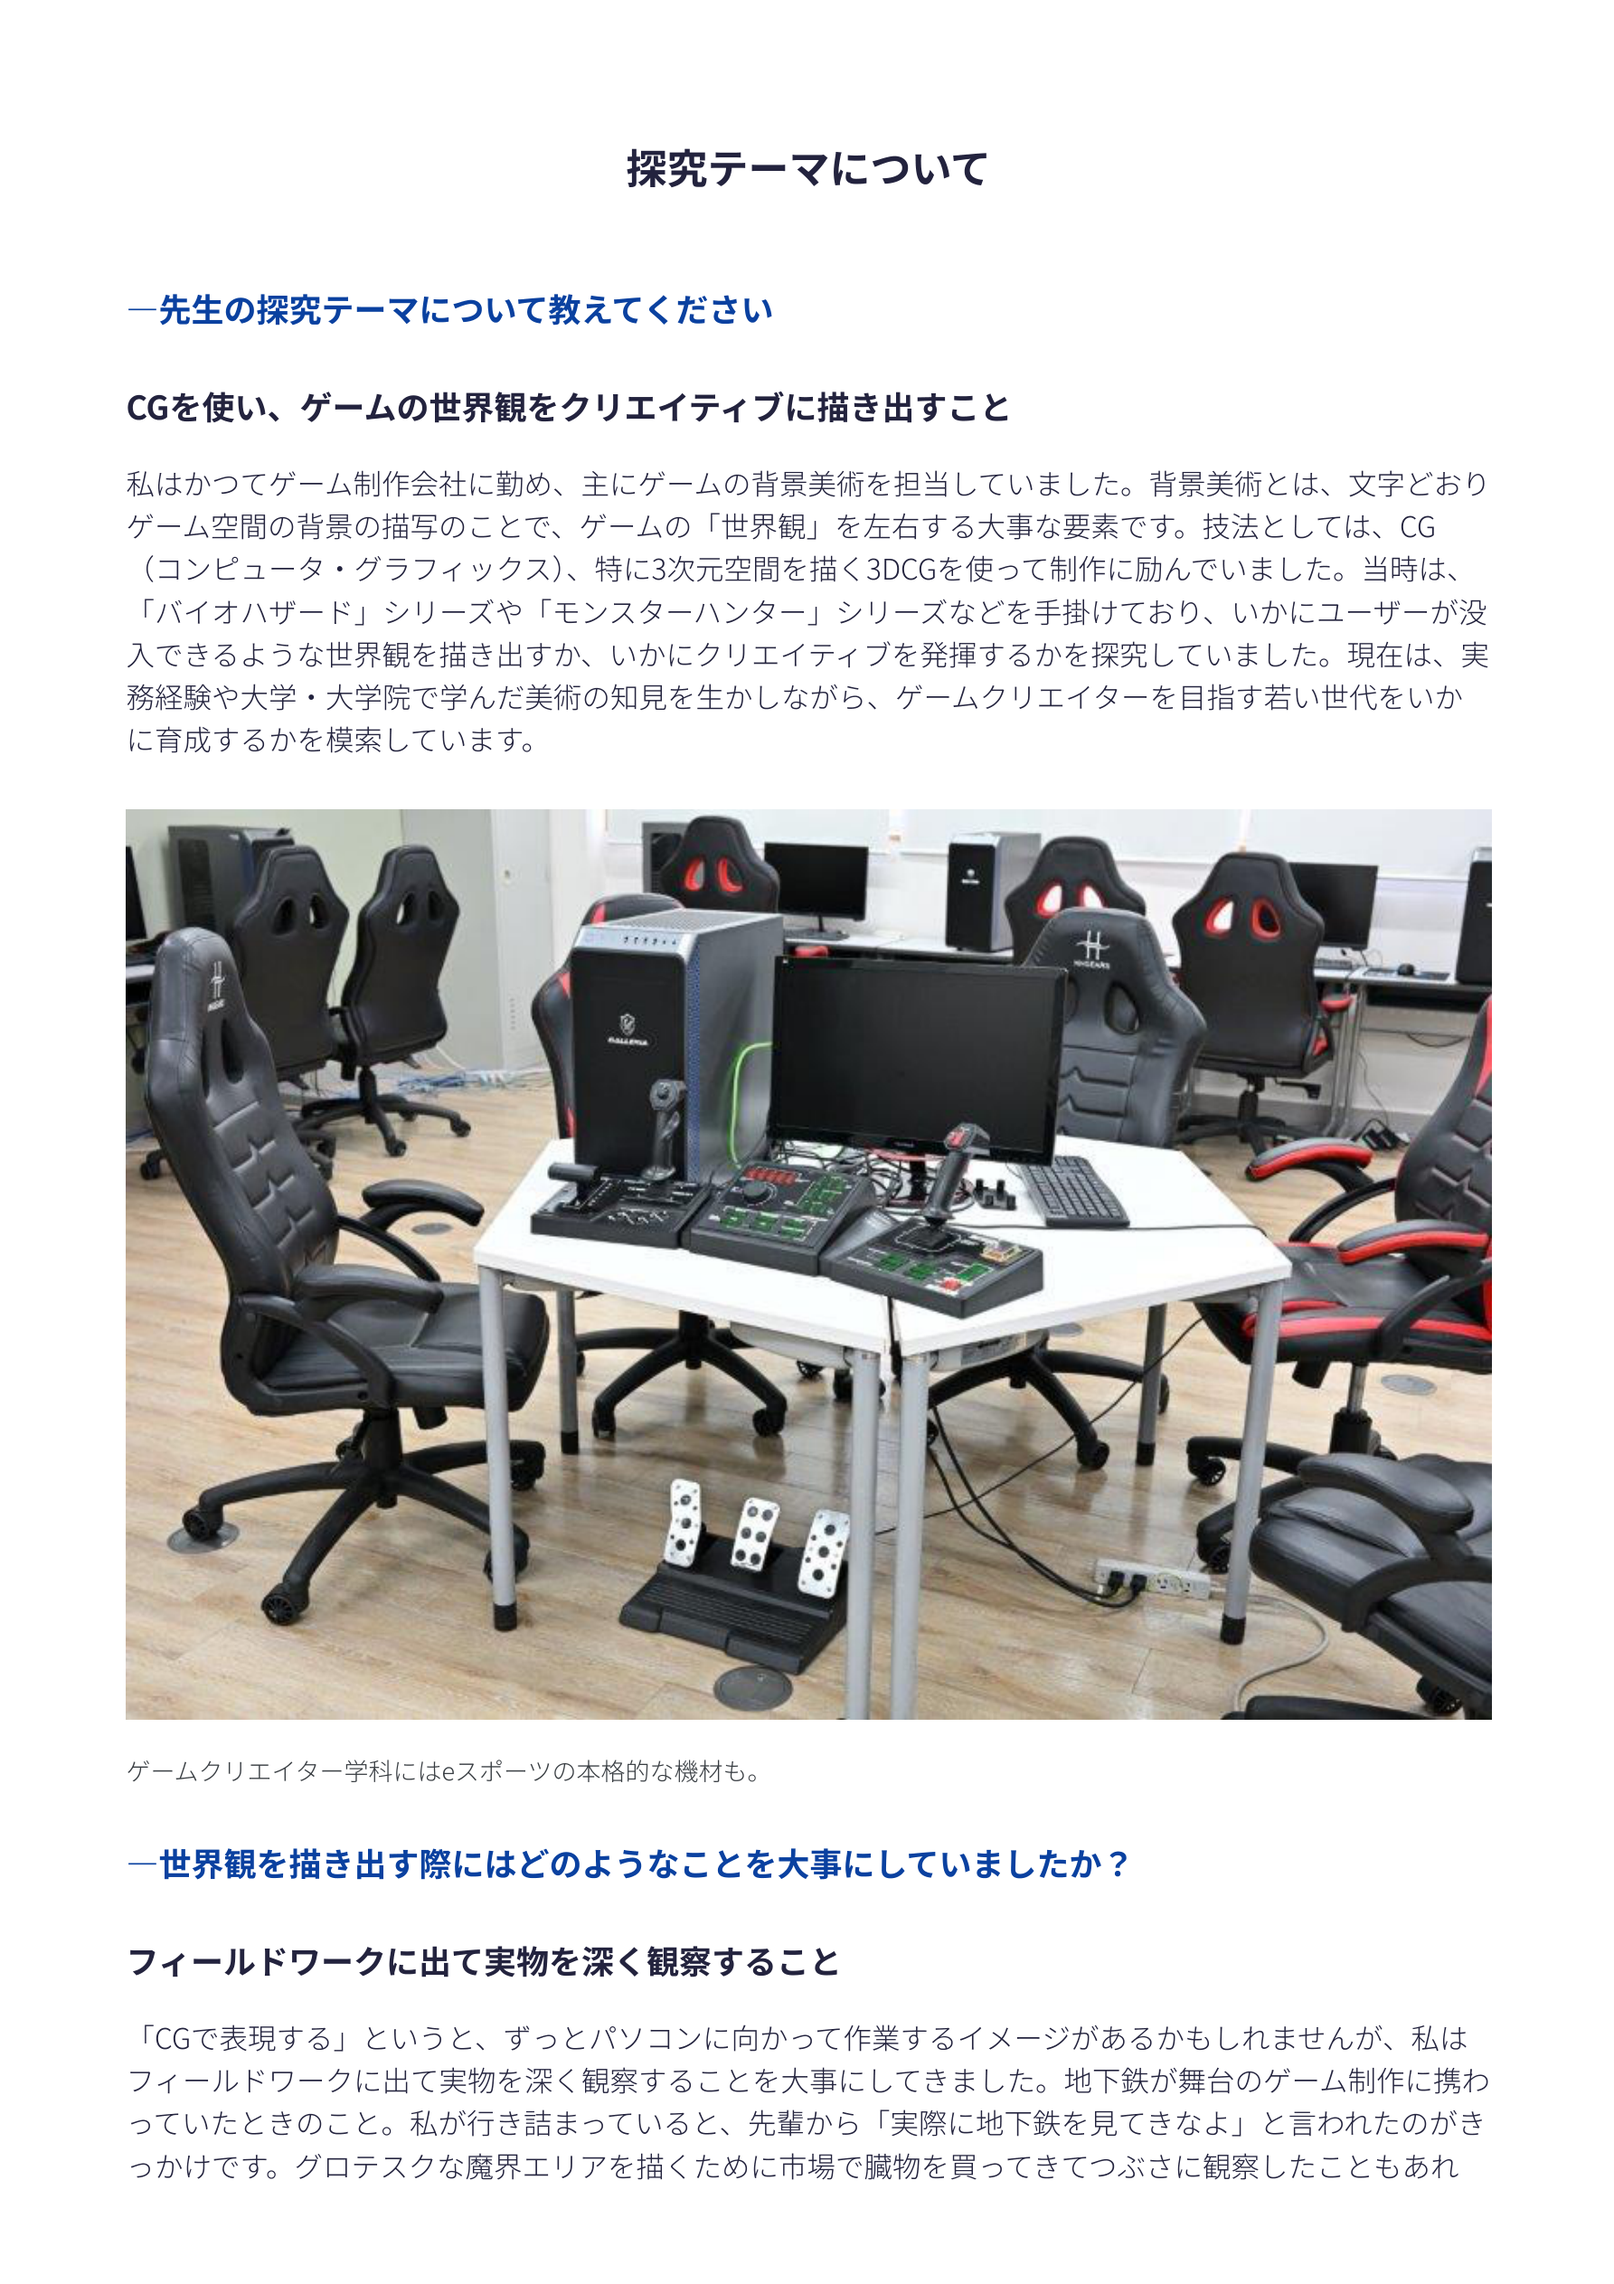
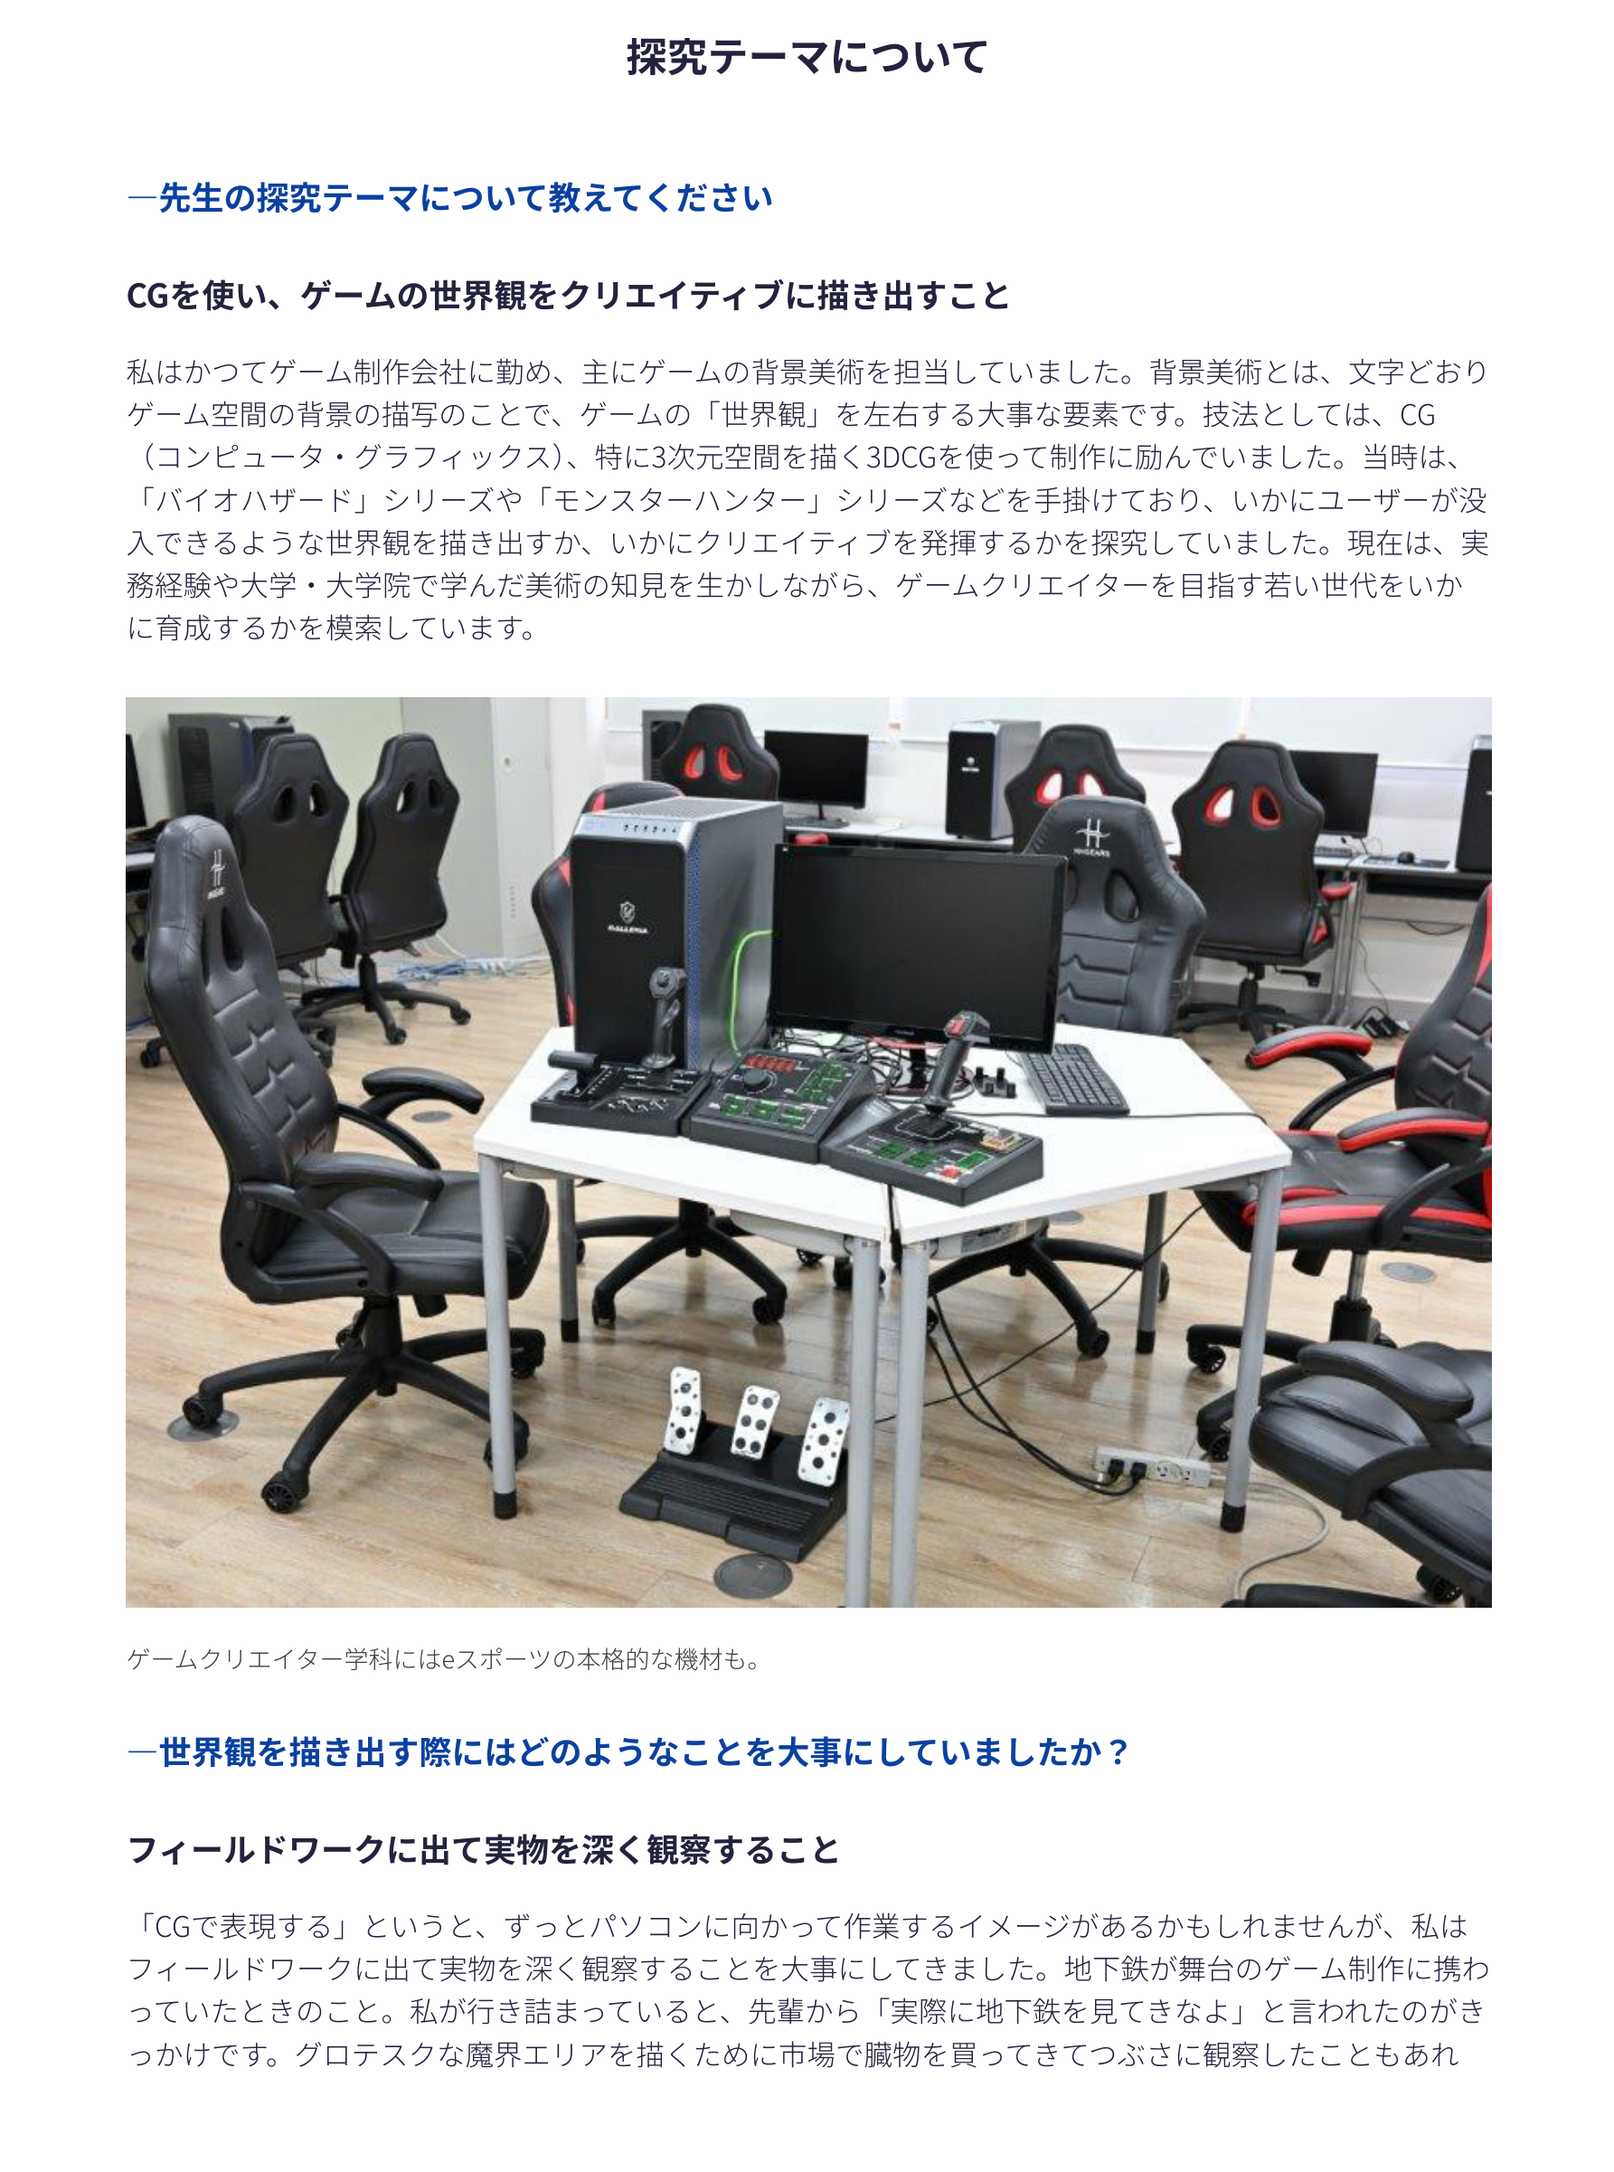
Tighten whitespace between PDF content blocks

diff --git a/index.html b/index.html
@@ -217,13 +217,13 @@
 <body>
   <main aria-label="112_立木先生2 PDF viewer">
     <div class="pdf-pages">
-      <img class="pdf-page" src="assets/page-01.png" alt="1ページ目" width="1785" height="2526">
-      <img class="pdf-page" src="assets/page-02.png" alt="2ページ目" width="1785" height="2526" loading="lazy">
-      <img class="pdf-page" src="assets/page-03.png" alt="3ページ目" width="1785" height="2526" loading="lazy">
-      <img class="pdf-page" src="assets/page-04.png" alt="4ページ目" width="1785" height="2526" loading="lazy">
-      <img class="pdf-page" src="assets/page-05.png" alt="5ページ目" width="1785" height="2526" loading="lazy">
+      <img class="pdf-page" src="assets/page-01.png" alt="1ページ目" width="1785" height="2104">
+      <img class="pdf-page" src="assets/page-02.png" alt="2ページ目" width="1785" height="2402" loading="lazy">
+      <img class="pdf-page" src="assets/page-03.png" alt="3ページ目" width="1785" height="1827" loading="lazy">
+      <img class="pdf-page" src="assets/page-04.png" alt="4ページ目" width="1785" height="1869" loading="lazy">
+      <img class="pdf-page" src="assets/page-05.png" alt="5ページ目" width="1785" height="2071" loading="lazy">
       <img class="pdf-page" src="assets/page-06.png" alt="6ページ目" width="1785" height="2526" loading="lazy">
-      <img class="pdf-page" src="assets/page-07.png" alt="7ページ目" width="1785" height="2526" loading="lazy">
+      <img class="pdf-page" src="assets/page-07.png" alt="7ページ目" width="1785" height="2198" loading="lazy">
       <div class="page-frame">
         <img class="pdf-page" src="assets/page-08.png" alt="8ページ目" width="1785" height="2526" loading="lazy">
         <section id="video-player" class="youtube-player" aria-label="動画プレイヤー">
